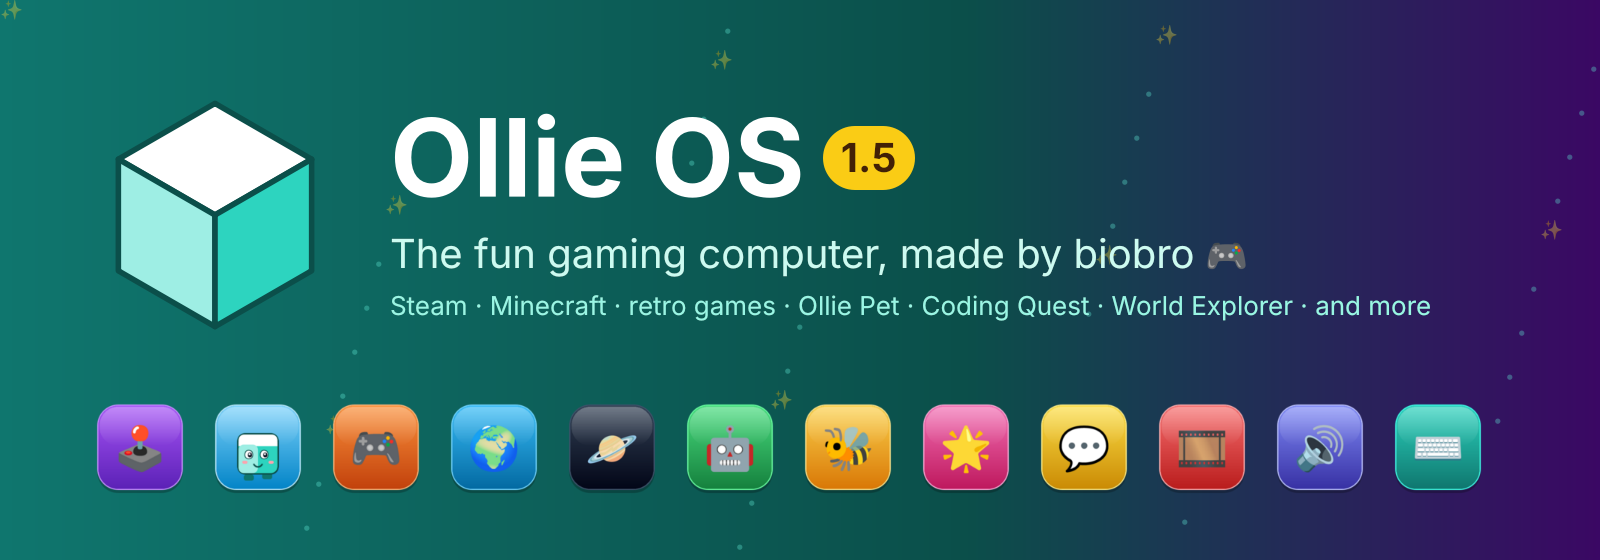
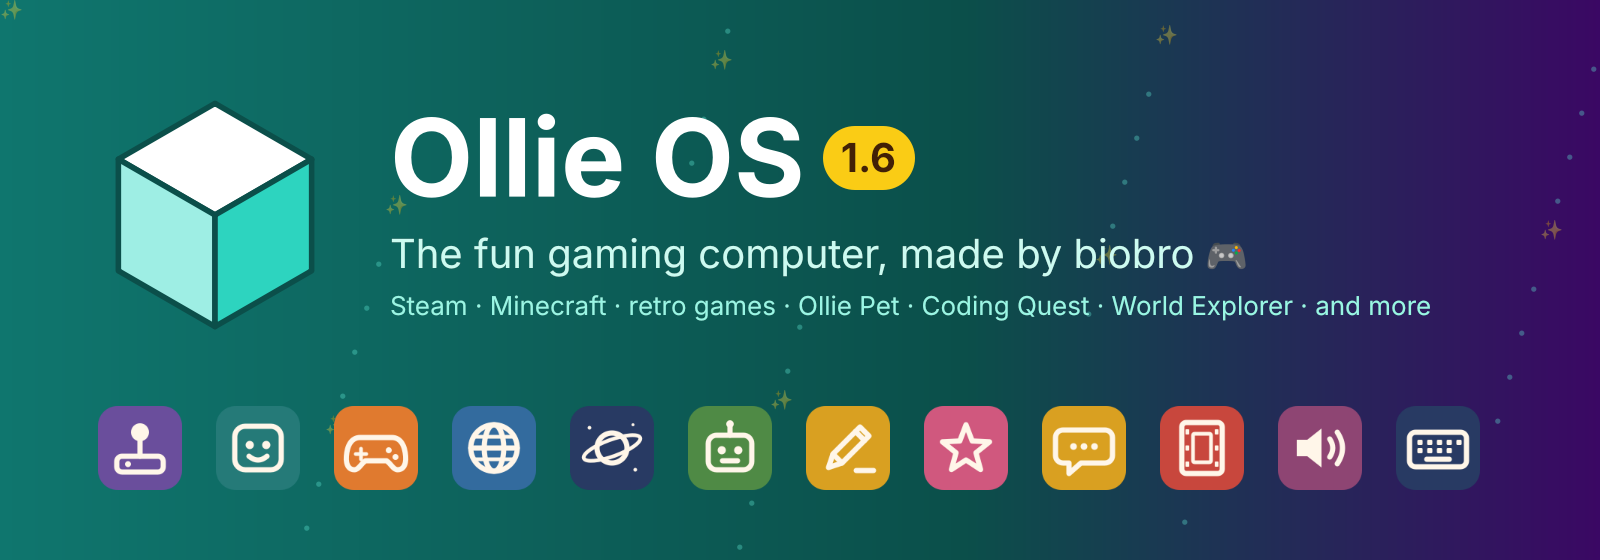
Ollie OS 1.6: updaters take out the voice and move the six apps
- The updaters can take files out (share/ollie-apps/remove): the Fun Pack
  and Latest Updaters take out ollie-say, Read aloud and the six apps' old
  menu entries (they are in the App Center now), and the report lists
  them ("Taken out").
- Their file lists: no voice, the App Center's Ollie apps, the new icons
  (SVG too), ollie-windows-boot and its service.
- Version 1.6 (/etc/ollie-version, checks, banner, website, README).

Claude-Session: https://claude.ai/code/session_01TsrSC7n5nV27rvJng7eshW

Changed region(s): [[0.0625, 0.6982, 0.9375, 0.8804], [0.5312, 0.2732, 0.5625, 0.3036]]

diff --git a/docs/index.html b/docs/index.html
@@ -5,7 +5,7 @@
 <meta name="viewport" content="width=device-width, initial-scale=1">
 <title>Ollie OS</title>
 <meta name="description" content="Ollie OS: the fun gaming computer, made by biobro. Steam, Minecraft, retro games, Ollie Pet, Coding Quest, World Explorer and more, built on Arch Linux. Free.">
-<meta property="og:title" content="Ollie OS 1.5">
+<meta property="og:title" content="Ollie OS 1.6">
 <meta property="og:description" content="The fun gaming computer, made by biobro. Free, built on Arch Linux.">
 <meta property="og:image" content="ollie-os-banner.png">
 <link rel="icon" href="ollie-os.svg" type="image/svg+xml">
@@ -178,7 +178,7 @@
 <header class="hero" id="top">
   <div class="wrap">
     <img class="cube" src="ollie-os.svg" alt="The Ollie OS cube">
-    <h1>Ollie OS<span class="badge">1.5</span></h1>
+    <h1>Ollie OS<span class="badge">1.6</span></h1>
     <p class="tag">The fun gaming computer, made by biobro 🎮</p>
     <p class="sub">Steam · Minecraft · retro games · Ollie Pet · Coding Quest · World Explorer · and lots more</p>
     <div class="actions">

diff --git a/os/art/icons/Banner.qml b/os/art/icons/Banner.qml
@@ -39,7 +39,7 @@ Window {
             Rectangle {
                 anchors.verticalCenter: parent.verticalCenter
                 width: v.width + 36; height: 64; radius: 32; color: "#facc15"
-                Text { id: v; anchors.centerIn: parent; text: "1.5"; font.pixelSize: 40; font.bold: true; color: "#422006" }
+                Text { id: v; anchors.centerIn: parent; text: "1.6"; font.pixelSize: 40; font.bold: true; color: "#422006" }
             }
         }
         Text { text: "The fun gaming computer, made by biobro 🎮"; color: "#ccfbf1"; font.pixelSize: 40 }

diff --git a/README.md b/README.md
@@ -1,4 +1,4 @@
-![Ollie OS 1.5](docs/ollie-os-banner.png)
+![Ollie OS 1.6](docs/ollie-os-banner.png)
 
 # Oliver DEMO AVAILABLE
 Ollie OS was dreamed up, designed and tested by an 8-year-old, built with help from AI (Claude). Great for gaming: comes with Wine, Steam and more, plus a debugger and a driver installer. Easy to install KID FREINDLY WITH UPDATE VERSION 1.3
@@ -7,7 +7,7 @@ Ollie OS was dreamed up, designed and tested by an 8-year-old, built with help f
 IF mac says will not let you open go to settings privacy gatekepper press lock and go to allow
 <img width="1600" height="520" alt="image-1793888644930" src="https://github.com/user-attachments/assets/a233df66-32a0-46fd-aecb-8cbe7632bc3f" />
 
-## Ollie OS 1.5
+## Ollie OS 1.6
 
 **The fun gaming computer, made by biobro.** Ollie OS is built on Arch Linux
 and starts straight into a colourful desktop with Steam (and its big-screen
